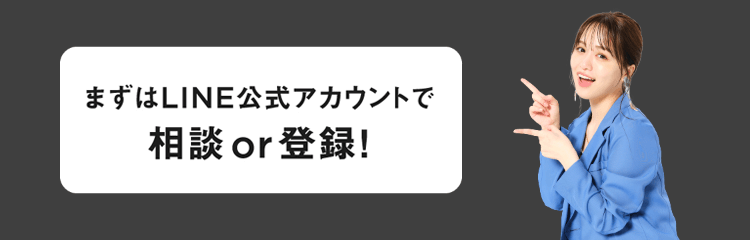
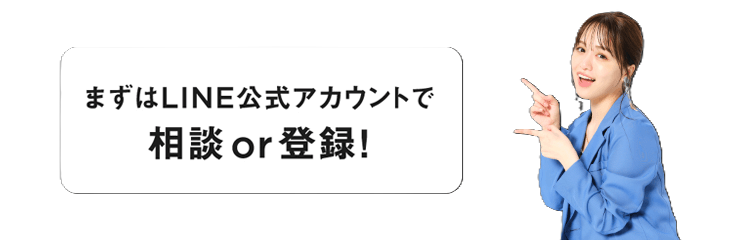
worked on main landing page

diff --git a/client_website/app/components/hamburger.tsx b/client_website/app/components/hamburger.tsx
@@ -16,12 +16,12 @@ export default function HamburgerMenu(){
         
         {open &&(
             <section className="fixed backdrop-blur-xl mt-[23] bg-white/80 p-2 left-0 w-full  transition-all duration-300">
-                <nav className=" container w-100 mx-auto px-6 py-4 flex items-center justify-between ">
-                    <ul className="flex flex-col gap-10 mx-auto px-10 py-6 text-2xl text-black ">
-                        <li><Link href="/about" onClick={()=> openSetter(false) } className="inline-block shadow-md hover:shadow-lg shadow-yellow-500 hover:scale-110 transition-transform text-white bg-gradient-to-br from-orange-400 via-orange-600 to-orange-400 rounded-full px-4 py-2" >会社概要</Link></li>
-                        <li><Link href="/recruit" onClick={()=> openSetter(false) } className="inline-block shadow-md hover:shadow-lg shadow-yellow-500 hover:scale-110 transition-transform text-white  bg-gradient-to-br from-orange-400 via-orange-600 to-orange-400 rounded-full px-4 py-2">ライバー応募フォーム</Link></li>
-                        <li><Link href="/contact" onClick={()=> openSetter(false) } className="inline-block shadow-md hover:shadow-lg shadow-yellow-500 hover:scale-110 transition-transform text-white bg-gradient-to-br from-orange-400 via-orange-600 to-orange-400 rounded-full px-4 py-2">問い合わせ</Link></li>
-                        <li><Link href="/privacy-policy" onClick={()=> openSetter(false) } className="inline-block shadow-md hover:shadow-lg shadow-yellow-500 hover:scale-110 transition-transform text-white  bg-gradient-to-br from-orange-400 via-orange-600 to-orange-400 rounded-full px-4 py-2">プライバシーポリシー</Link></li>
+                <nav className=" container  mx-auto px-6 py-4 flex items-center justify-between ">
+                    <ul className="flex flex-col gap-10 mx-auto px-10 py-6 text-xl text-black ">
+                        <li><Link href="/about" onClick={()=> openSetter(false) } className="inline-block shadow-md hover:shadow-lg shadow-yellow-500 hover:scale-110 transition-transform text-white bg-gradient-to-br from-orange-400 via-orange-600 to-orange-400 rounded-lg px-4 py-2" >会社概要</Link></li>
+                        <li><Link href="/recruit" onClick={()=> openSetter(false) } className="inline-block shadow-md hover:shadow-lg shadow-yellow-500 hover:scale-110 transition-transform text-white  bg-gradient-to-br from-orange-400 via-orange-600 to-orange-400 rounded-lg px-4 py-2">ライバー応募フォーム</Link></li>
+                        <li><Link href="/contact" onClick={()=> openSetter(false) } className="inline-block shadow-md hover:shadow-lg shadow-yellow-500 hover:scale-110 transition-transform text-white bg-gradient-to-br from-orange-400 via-orange-600 to-orange-400 rounded-lg px-4 py-2">問い合わせ</Link></li>
+                        <li><Link href="/privacy-policy" onClick={()=> openSetter(false) } className="inline-block shadow-md hover:shadow-lg shadow-yellow-500 hover:scale-110 transition-transform text-white  bg-gradient-to-br from-orange-400 via-orange-600 to-orange-400 rounded-lg px-4 py-2">プライバシーポリシー</Link></li>
                     </ul>
                 </nav>
             </section>

diff --git a/client_website/app/page.tsx b/client_website/app/page.tsx
@@ -4,7 +4,7 @@ import Banner from './components/banner'
 
 export default function Home() {
   return (
-    <div className="min-h-screen select-none ">
+    <div className="select-none">
   <Banner/>
        {/* Hero */}
       <section className="relative mx-auto min-h-screen overflow-hidden bg-white circle-pattern">
@@ -19,12 +19,12 @@ export default function Home() {
       <div className='absolute bg-orange-500/40 w-25 h-25 mt-69 rounded-full mx-92 rotate-12'> </div>
       <div className='absolute z-50 mt-150 w-0 h-0 rotate-90 scale-85 border-l-[50px] border-r-[50px] border-b-[100px] border-l-transparent border-r-transparent border-b-blue-500'></div>
       <div className='absolute z-99 mt-150 mx-2 w-0 h-0 rotate-90 scale-85 border-l-[50px] border-r-[50px] border-b-[100px] border-l-transparent border-r-transparent border-b-black/20'></div>   */}
-      <p className=' inset-0 text-black text-6xl text-center font-black'> ライブ配信で<br></br>生きていく</p>
+      <p className=' inset-0 text-black text-5xl text-center font-black'> ライブ配信で<br></br>生きていく</p>
       <p className=' inset-0 text-black text-lg text-center font-black mt-8'> 頑張った時間が収入になる！<br></br>
       モアプロはあなたが最短で稼げるように支援します</p>
 
       {/* LINE button function */}
-      <div data-aos="fade-up" data-aos-duration="800" className='relative flex items-center justify-center mt-6 bg-yellow-200 h-35 overflow-visible '>
+      <div data-aos="fade-up" data-aos-duration="800" className='relative flex items-center justify-center mt-20 bg-gradient-to-br from-yellow-100 to-yellow-400 h-35 overflow-visible '>
       {/* Speech bubble */}
       <div className='z-50 absolute top-3 bg-white rounded-2xl w-40 font-sans text-center object-center py-1 scale-120 text-green-500 outline-1 outline-black/20 shadow-xl'> まずは気軽に面談</div>
        {/* Speech bubble arrow */}

diff --git a/client_website/app/layout.tsx b/client_website/app/layout.tsx
@@ -35,7 +35,7 @@ export default function RootLayout({
   children: React.ReactNode;
 }>) {
   return (
-    <html lang="en" className="bg-gray-900">
+    <html lang="en" className="bg-white">
       <head>
         <Script
           id="gtm-script"
@@ -62,7 +62,7 @@ export default function RootLayout({
           />
         </noscript>
       
-        <header className="fixed backdrop-blur z-99 shadow-sm w-md">
+        <header className="fixed backdrop-blur bg-white/70 z-99 shadow-sm md:w-md w-full">
         <nav className="mx-auto p-8 flex items-center justify-center gap-8 ">
           <Link href="/" className="absolute left-0 h-20">
           <img src="/final_logo.png" className="h-20 w-40 rounded-lg object-contain"/>

diff --git a/client_website/app/components/banner.tsx b/client_website/app/components/banner.tsx
@@ -6,7 +6,7 @@ export default function Banner(){
         <section className="fixed bottom-0 right-0 z-99">
             <div className="">
                     <Link href="/recruit" className="">
-                        <img className="w-100 h-full block" src={"line.png"}/>
+                        <img className="w-100 h-full md:block hidden" src={"line.png"}/>
                         </Link>
                     <div className="absolute bottom-0 right-0 mb-9 ">
                     </div>

diff --git a/client_website/app/globals.css b/client_website/app/globals.css
@@ -52,7 +52,7 @@ body {
 .scrolling {
 display: flex;
 width: max-content;
-animation: text-scroll 3s linear infinite;
+animation: text-scroll 18s linear infinite;
 white-space: nowrap;
 }
 
